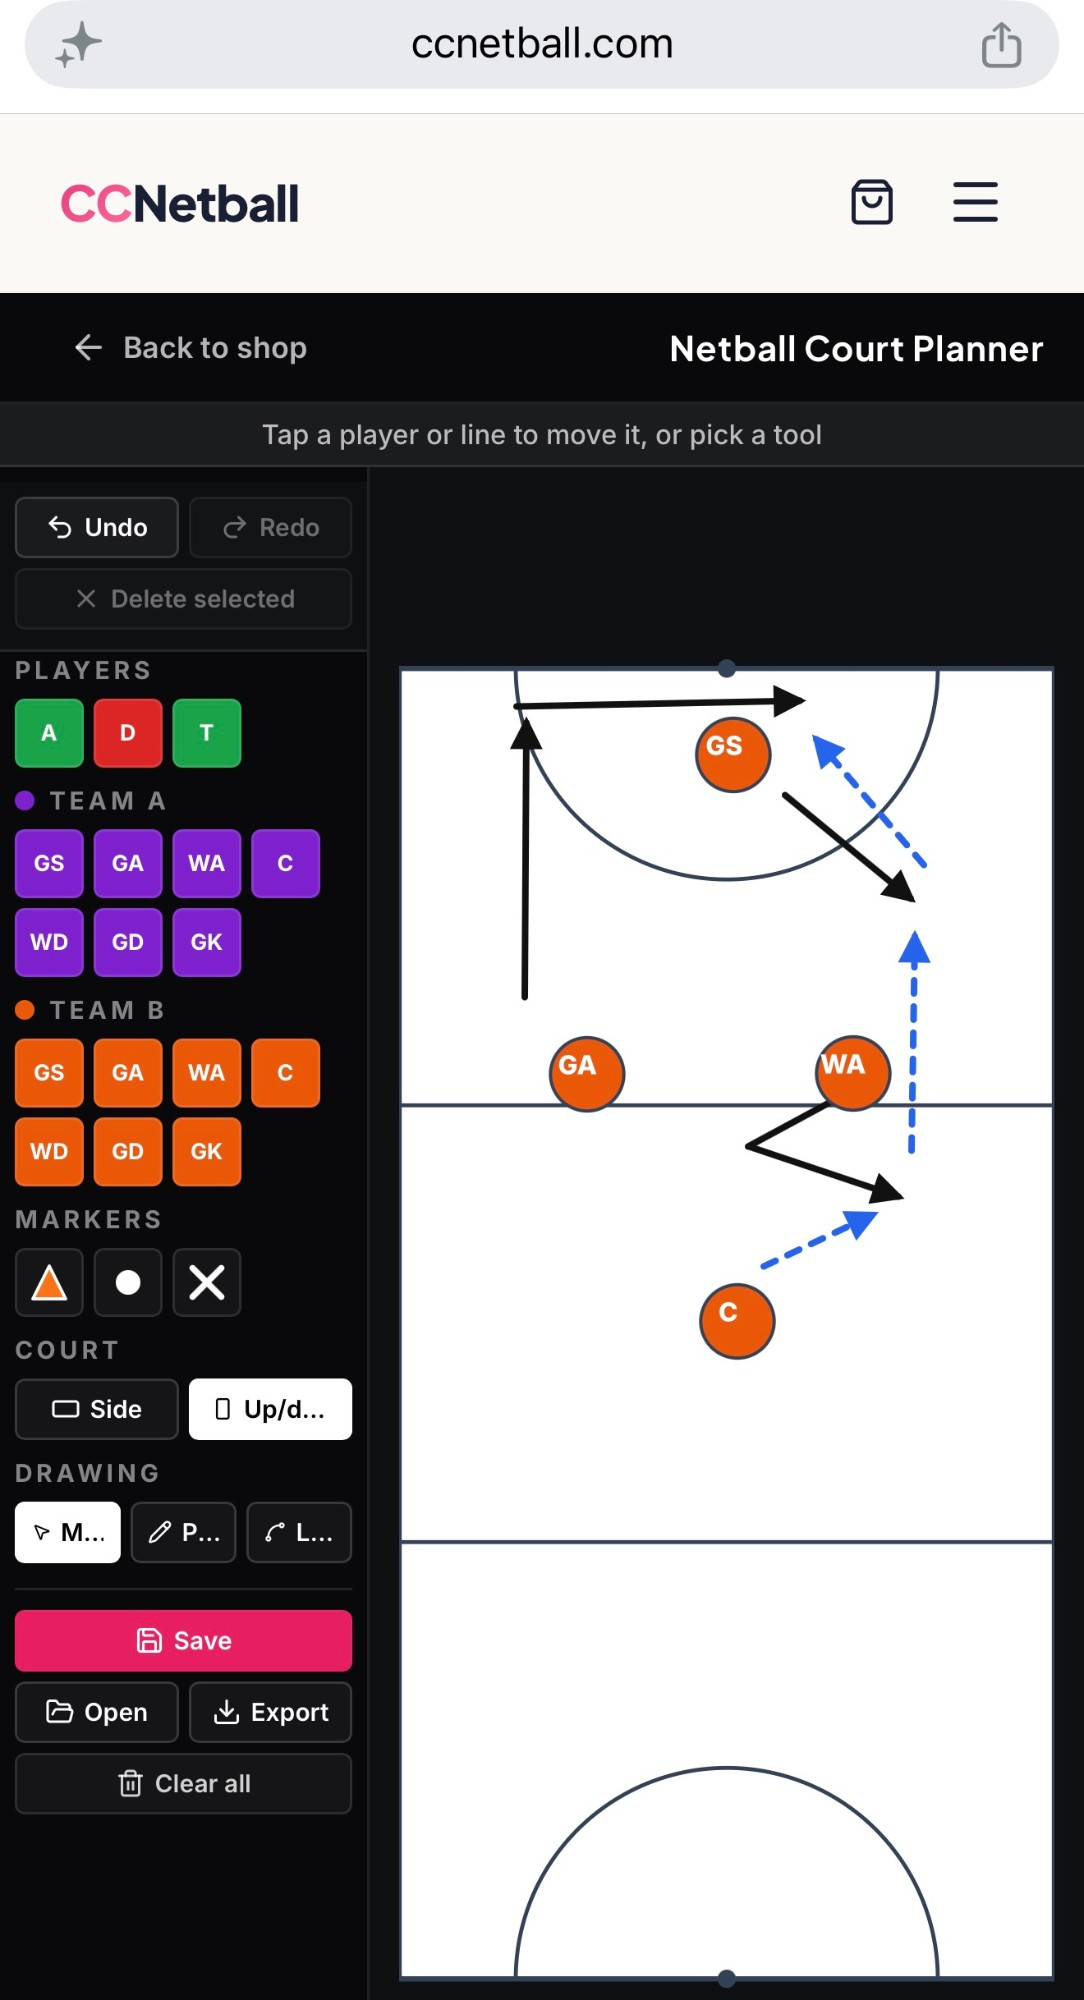
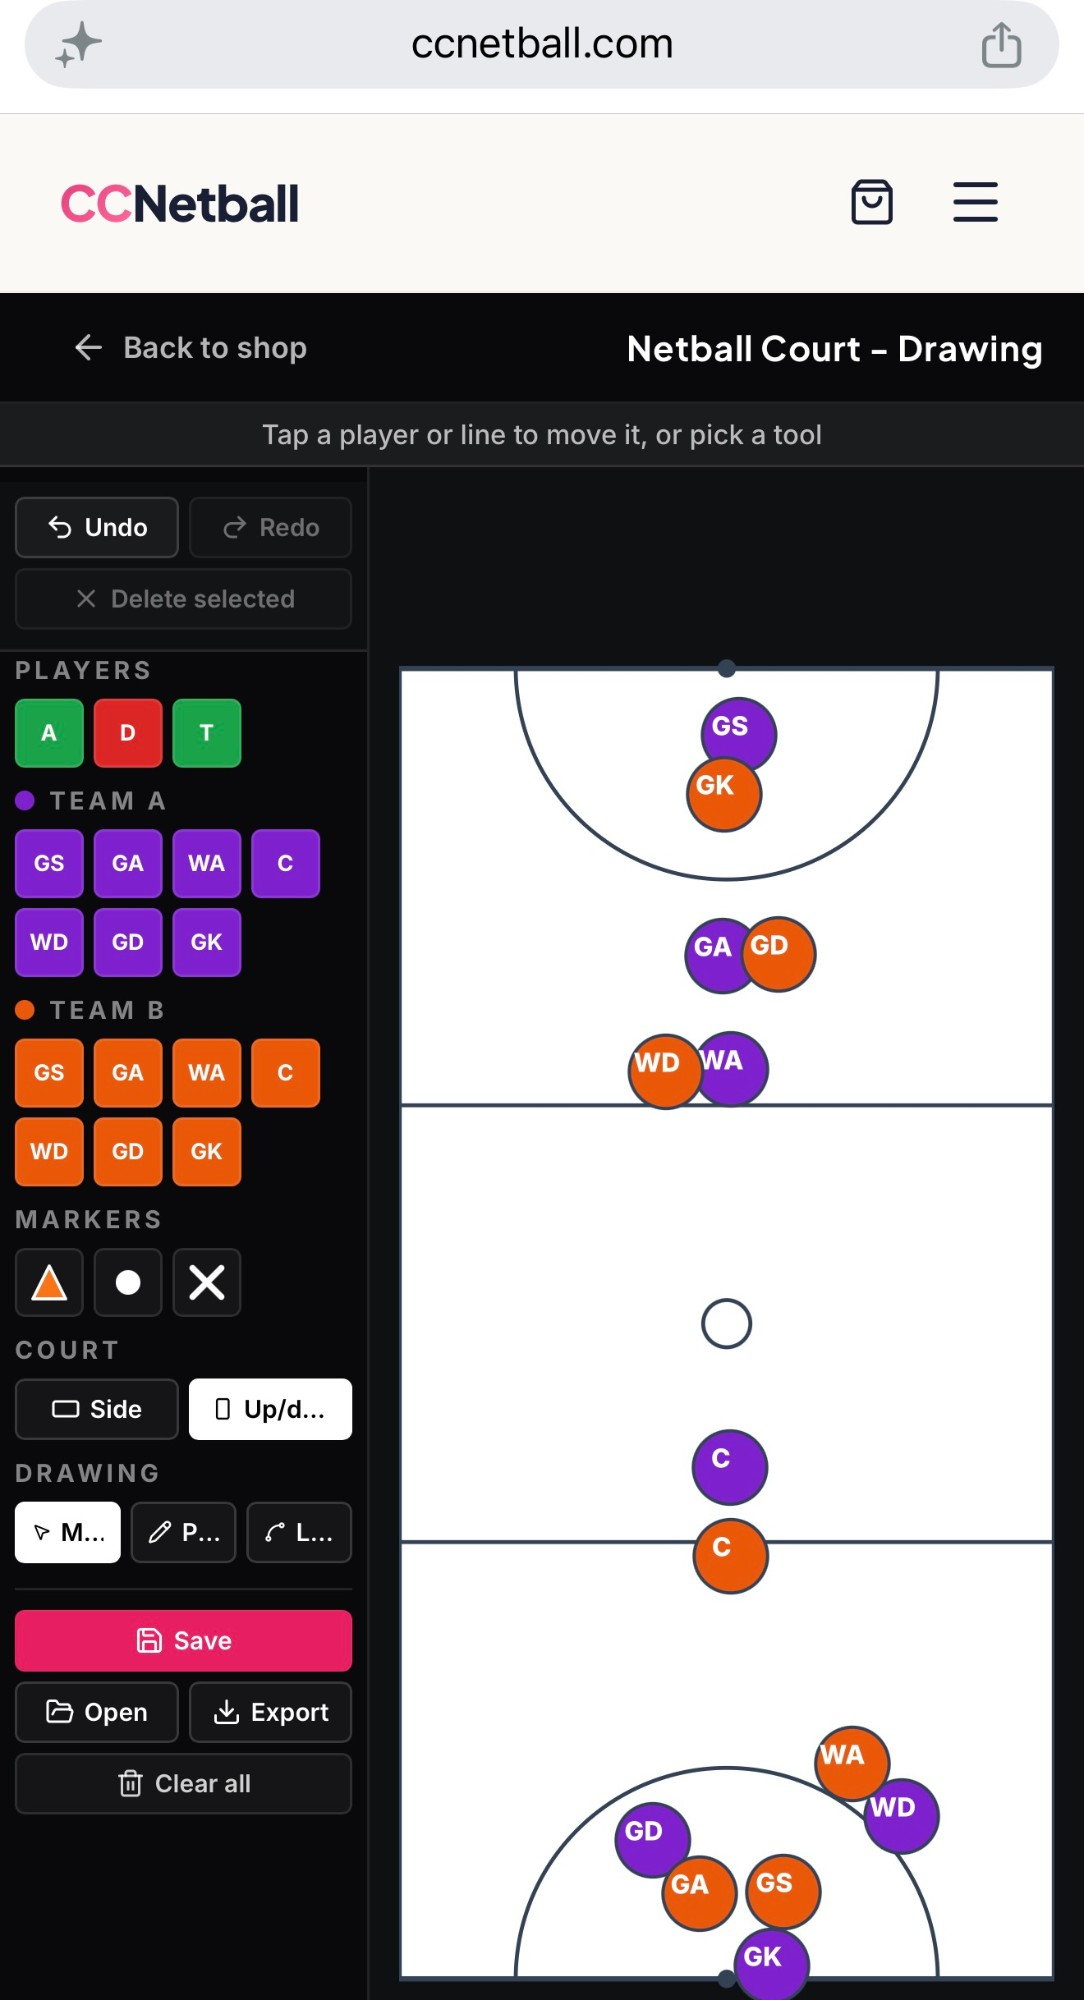
Shop: swap in fresh Court Drawing stills (new heading)
Three new iPhone shots that show the correct "Netball Court - Drawing"
header, replacing the originals captured before the rename.

- 01: cone drill — three cones, X, thrower, arrows
- 02: attacker-vs-defender training drill with the ball
- 03: full set play with both teams on the court

Alt text and captions updated to match the fresh content.

diff --git a/src/lib/shop-content.ts b/src/lib/shop-content.ts
@@ -65,19 +65,19 @@ export const SHOP_PRODUCTS: ShopProduct[] = [
     launchUrl: "/court-planner",
     previewImages: [
       {
-        src: "/shop/court-planner/01-clean-canvas.jpg",
-        alt: "Netball Court - Drawing on an iPhone with a blank court ready to use",
-        caption: "Clean canvas on your phone or tablet",
+        src: "/shop/court-planner/01-cone-drill.jpg",
+        alt: "A simple netball drill set up with three cones, a starting cross, a thrower token and movement arrows",
+        caption: "Set up a drill in seconds — cones, a starting X, and arrows",
       },
       {
-        src: "/shop/court-planner/02-cone-drill.jpg",
-        alt: "Cones, a thrower and movement arrows drawn on the court",
-        caption: "Set up cones, place a thrower, draw movement arrows",
+        src: "/shop/court-planner/02-attack-defend-drill.jpg",
+        alt: "An attacker-versus-defender drill with multiple A and D player tokens and the ball marked on the court",
+        caption: "Run attacker-vs-defender drills with the ball in play",
       },
       {
         src: "/shop/court-planner/03-set-play.jpg",
-        alt: "A full set play with solid lines for leads and dashed lines for passes",
-        caption: "Draw full set plays — solid for leads, dashed for passes",
+        alt: "A full set play with both teams positioned on the court — purple Team A and orange Team B",
+        caption: "Build a full set play with both teams on the court",
       },
     ],
   },
